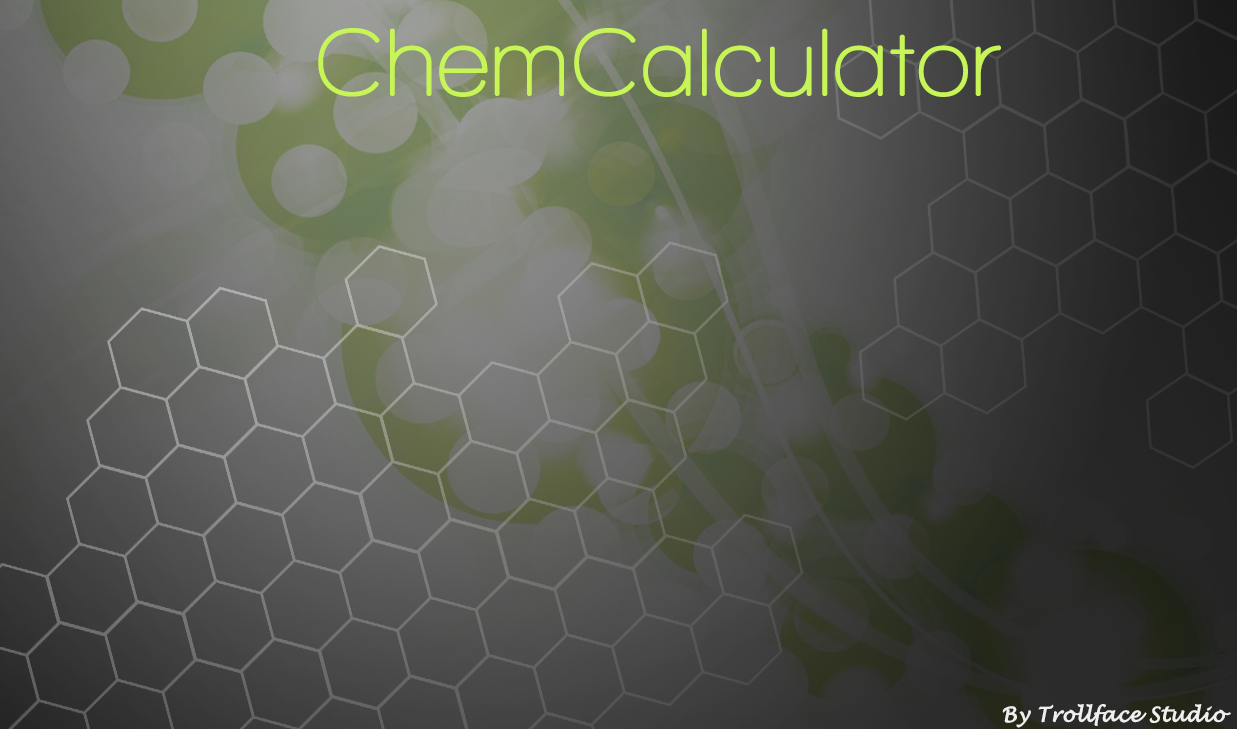
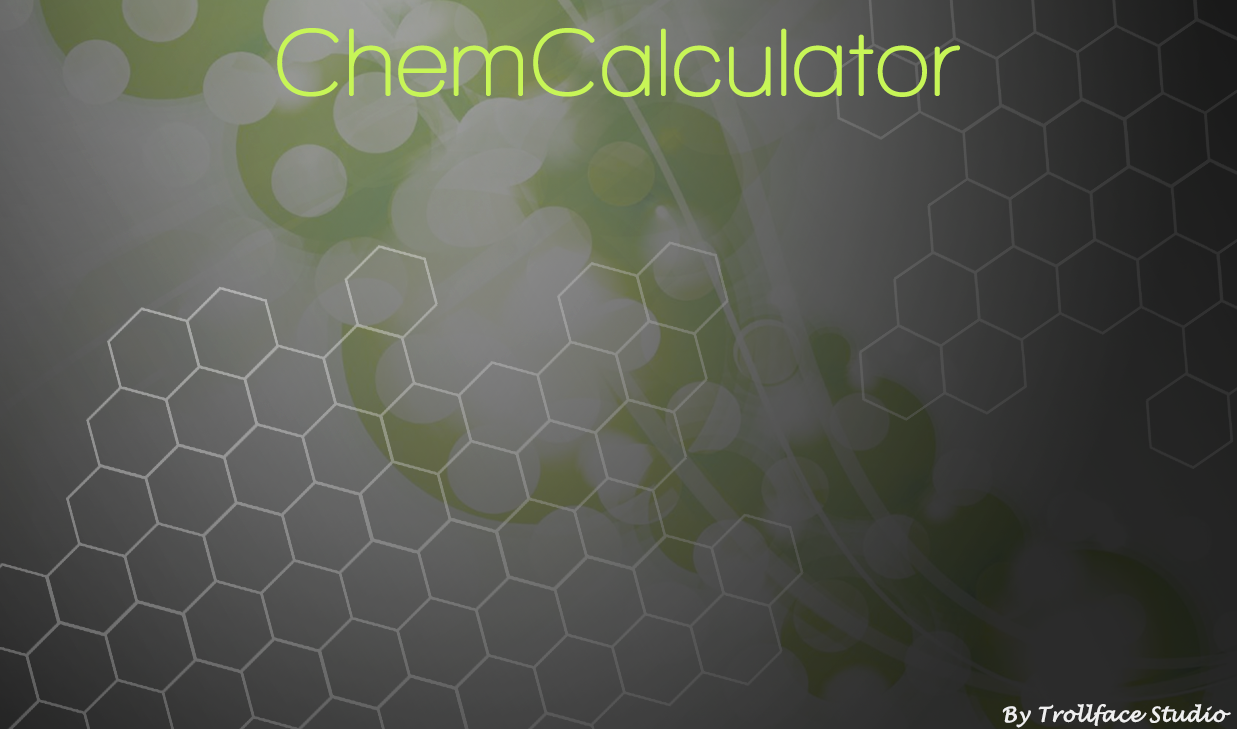
Design stuff + creds

Changed region(s): [[0.215, 0.0302, 0.7987, 0.1509]]

diff --git a/src/trollface/calc/core/Credits.java b/src/trollface/calc/core/Credits.java
@@ -14,7 +14,7 @@ public class Credits extends BasicGameState {
 
 	private static AppGameContainer app;
 
-	Image background, sipka, sipkaglow, backgroundM;
+	Image background, sipka, sipkaglow, backgroundM_credits;
 	boolean glowactive = false;
 	Base game;
 
@@ -28,7 +28,7 @@ public class Credits extends BasicGameState {
 		background = new Image("src/trollface/calc/images/chemBackground.png");
 		sipka = new Image("src/trollface/calc/images/gobackbuttonM.png");
 		sipkaglow = new Image("src/trollface/calc/images/gobackbuttonMglow.png");
-		backgroundM = new Image("src/trollface/calc/images/chemBackgroundM.png");
+		backgroundM_credits = new Image("src/trollface/calc/images/chemBackgroundM_credits.png");
 	}
 
 	public void update(GameContainer c, StateBasedGame game, int delta)
@@ -67,7 +67,7 @@ public class Credits extends BasicGameState {
 				sipkaglow.draw(10, 420);
 			}
 		} else {
-			backgroundM.draw();
+			backgroundM_credits.draw();
 			sipka.draw(50, 600);
 			if (glowactive == true) {
 				sipkaglow.draw(50, 600);
